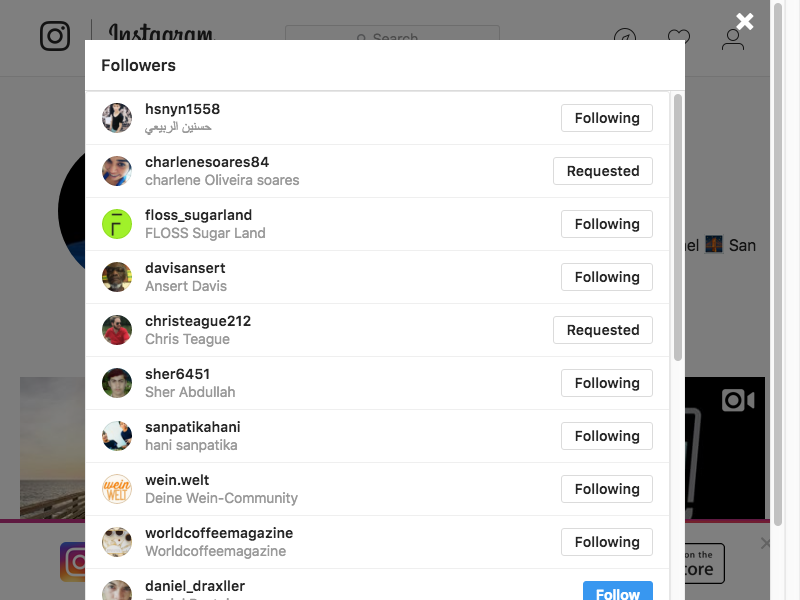
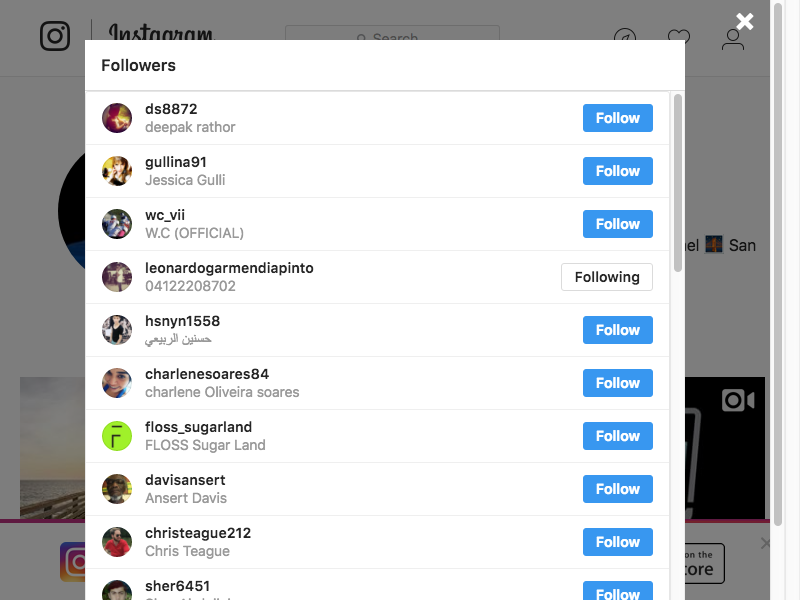
MOVED IG SCRIPTS TO IGCONTROLLER AND THE FOLLOWERS LIST CAN NOW SCROLL.

diff --git a/server/istagramController.js b/server/istagramController.js
@@ -1,11 +1,12 @@
 var app = require('./index.js');
+var config = require('./config.js');
 
 const puppeteer = require('puppeteer');
 
 module.exports = {
 
-  instagramFollowScriptBasic: async function (email, password, username, profiles, peopleFollowedByScript) {
-
+  instagramFollowScriptBasic: async function(req, res){
+    
     const logInOption = '#react-root > section > main > article > div._kbq82 > div:nth-child(2) > p > a';
     const emailInput = '#react-root > section > main > article > div._kbq82 > div:nth-child(1) > div > form > div:nth-child(1) > div > div._ev9xl input';
     const passwordInput = '#react-root > section > main > article > div._kbq82 > div:nth-child(1) > div > form > div:nth-child(2) > div > div._ev9xl input';
@@ -13,21 +14,24 @@ module.exports = {
     const profileLink = 'a[href="/'+config.username+'/"]';
     const followingBtn = '#react-root > section > main > article > header > section > ul > li:nth-child(3) > a';
     const followingList = '._gs38e ul div';
-    
     const followersButton = '#react-root > section > main > article > header > section > ul > li:nth-child(2) > a';
     const followersListReady = 'body > div:nth-child(14) > div > div._o0j5z > div > div._gs38e > ul > div > li:nth-child(1) > div > div._mtnzs > span > button';
     const followersList = '._p4iax > li:nth-child(0) >';
-  
-  
-  
+    
+    req.session.followScriptBasicRunning = true;
+    
+    console.log('hit', req.body, req.session)
+    
+    
+    let {email, password} = req.body;
     let peopleFollowed = 0;
-  
-  
-  
+    
+    
+    
     const browser = await puppeteer.launch({headless: false});
     const page = await browser.newPage();  
-  
-  
+    
+    
     await page.waitFor(5000);
     
     await page.goto('https://www.instagram.com/');
@@ -42,41 +46,49 @@ module.exports = {
     
     // await page.waitForSelector(profileLink);
     await page.waitFor(10000);
-  
+    
     await page.goto('https://www.instagram.com/psercia/');
     await page.waitForSelector(followersButton);
-  
-    await page.click(followersButton);
-  
-    await page.waitForSelector(followersListReady)
-  
-    for(let i=1; i<10; i++){
-      let indexToFollow = `body > div:nth-child(14) > div > div._o0j5z > div > div._gs38e > ul > div > li:nth-child(${i}) > div > div._mtnzs > span > button`
-  
-      await page.waitFor(6000)
     
+    await page.click(followersButton);
+    
+    await page.waitForSelector(followersListReady)
+
+    let numberOfPeopleToFollow = 2;
+    
+    for(let i=1; i<numberOfPeopleToFollow; i++){
+      const indexToFollow = `body > div:nth-child(14) > div > div._o0j5z > div > div._gs38e > ul > div > li:nth-child(${i}) > div > div._mtnzs > span > button`
+      // let list = page.evaluate( document.getElementsByClassName('_gs38e')[0] )
+      // const list = await page.evaluateHandle(() => document.getElementsByClassName('_gs38e')[0]);
+      await page.waitFor(1000)
+      if(i<=18){ 
+        await page.evaluate(() => {document.getElementsByClassName('_gs38e')[0].scrollTop = document.getElementsByClassName('_gs38e')[0].scrollHeight });
+      }
+      await page.waitFor(6000)
+      
       await page.click(indexToFollow);
     }
-  
-  
+    
+    
     await page.waitFor(5000);
-  
+    
     // await page.click(profileLink);
     
     // await page.waitForSelector(followingBtn);
     // await page.click(followingBtn);
     
     // await page.waitForSelector(followingList);
-  
+    
     let r = Math.floor(Math.random()*1000000);
     // await page.screenshot({ path: `screenshots/instagram${r}.png` });
     await page.screenshot({ path: `screenshots/instagram001.png` });
     
     // await followUnfollow(page, profiles, peopleFollowedByScript);
-  
+    
     // the follow unfollow script runs until the subscription runs out or the user stops the script.
     // When that happens, close the puppeteer browser window
     browser.close();
-  
-  },
+    
+    
+  }
 }

diff --git a/server/index.js b/server/index.js
@@ -41,20 +41,22 @@ var instagramController = require("./istagramController.js");
 
 let oneDay = 1000*60*60*24;
 
-app.post('/api/launchIG', async function (req, res) {
-  req.session.followScriptBasicRunning = true;
-  console.log('hit', req.body, req.session)
-  let {email, password} = req.body;
-  // let profiles = req.body.profiles;
-  // db.getPeopleFollowedByScript()
-  // .then( response => {
-  //   peopleFollowedByScript = JSON.parse(response[0]);
-  //   instagram(email, password, username, profiles, peopleFollowedByScript);
-  // })
-  // instagramFollowScript(email, password, username, profiles, peopleFollowedByScript);
-  await instagramFollowScript(email, password);
-  await console.log('Insta Finished')
-})
+app.post('/api/launchIG', instagramController.instagramFollowScriptBasic);
+
+// app.post('/api/launchIG', async function (req, res) {
+//   req.session.followScriptBasicRunning = true;
+//   console.log('hit', req.body, req.session)
+//   let {email, password} = req.body;
+//   // let profiles = req.body.profiles;
+//   // db.getPeopleFollowedByScript()
+//   // .then( response => {
+//   //   peopleFollowedByScript = JSON.parse(response[0]);
+//   //   instagram(email, password, username, profiles, peopleFollowedByScript);
+//   // })
+//   // instagramFollowScript(email, password, username, profiles, peopleFollowedByScript);
+//   await instagramController.instagramFollowScriptBasic(email, password);
+//   await console.log('Insta Finished')
+// })
 
 app.post('/stopScript', (req, res) => {
   // push to DB
